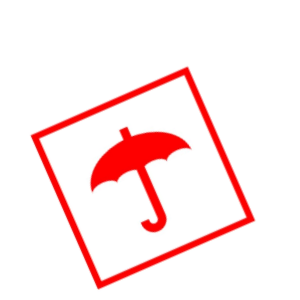
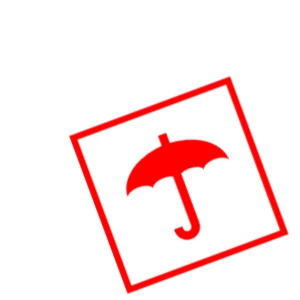
image rotation perfectly working

Changed region(s): [[0.09, 0.21, 0.96, 0.99]]

diff --git a/step1.cpp b/step1.cpp
@@ -65,7 +65,8 @@ vector<vector<Point> > newcontoursvector;
 Point prev;
 prev.x = 0;
 prev.y = 0;
-vector<Point > newcontours,draw,anothervar,outputQuad,inputQuad;
+vector<Point > newcontours,draw,anothervar;
+Point2f outputQuad[4],inputQuad[4];
 
 for (auto iter : contours)
    {
@@ -91,7 +92,7 @@ for (auto iter : contours)
   }
 Mat newdst=dst;
 approxPolyDP(anothervar, draw, 2, 1);
-int minx=32767,miny=32767,maxx=0,maxy=0;
+int minx=32767,miny=32767,maxx=0,maxy=0,it=0;
 for (auto iterator : draw)
 {
   Vec3b mycolor(0,0,100);
@@ -106,30 +107,36 @@ for (auto iterator : draw)
   minx=iterator.x;
   if(iterator.y<miny)
   miny=iterator.y;
-  inputQuad.push_back(iterator);
+  inputQuad[it]=iterator;
+  it++;
 }
 cout<<"Minx: "<<minx<<"Miny: "<<miny<<"Maxx: "<<maxx<<"Maxy: "<<maxy<<endl;
-outputQuad.push_back(Point(minx,miny));
-outputQuad.push_back(Point(minx,maxy));
-outputQuad.push_back(Point(maxx,miny));
-outputQuad.push_back(Point(maxx,maxy));
+outputQuad[0]=Point(minx,miny);
+outputQuad[1]=Point(minx,maxy);
+outputQuad[3]=Point(maxx,miny);
+outputQuad[2]=Point(maxx,maxy);
 Rect myROI(minx,miny,maxx-minx,maxy-miny);
-Mat croppedImage = src(myROI);
+
+Mat pers;
 
   for( int i = 0; i< contours.size(); i++ )
      {
        Scalar color = Scalar( rng.uniform(0, 255), rng.uniform(0,255), rng.uniform(0,255) );
        drawContours( drawing, contours, i, color, 2, 8, hierarchy, 0, Point() );
      }
+Mat lambda( 2, 4, CV_32FC1 );
+lambda = Mat::zeros( src.rows, src.cols, src.type() );
+lambda = getPerspectiveTransform(inputQuad, outputQuad);
+warpPerspective(src,pers,lambda,src.size() );
 
 
-
-
+Mat croppedImage = pers(myROI);
  //imshow("detected lines", cdst);
- imshow("corners",newdst);
+ //imshow("corners",newdst);
  //imshow("canny", dst);
- imshow("contours",drawing);
- imshow("cfaf",croppedImage);
+// imshow("contours",drawing);
+ imshow("Original",src);
+ imshow("Cropped and Rotated",croppedImage);
  //imshow("contours",contours);
 
 
